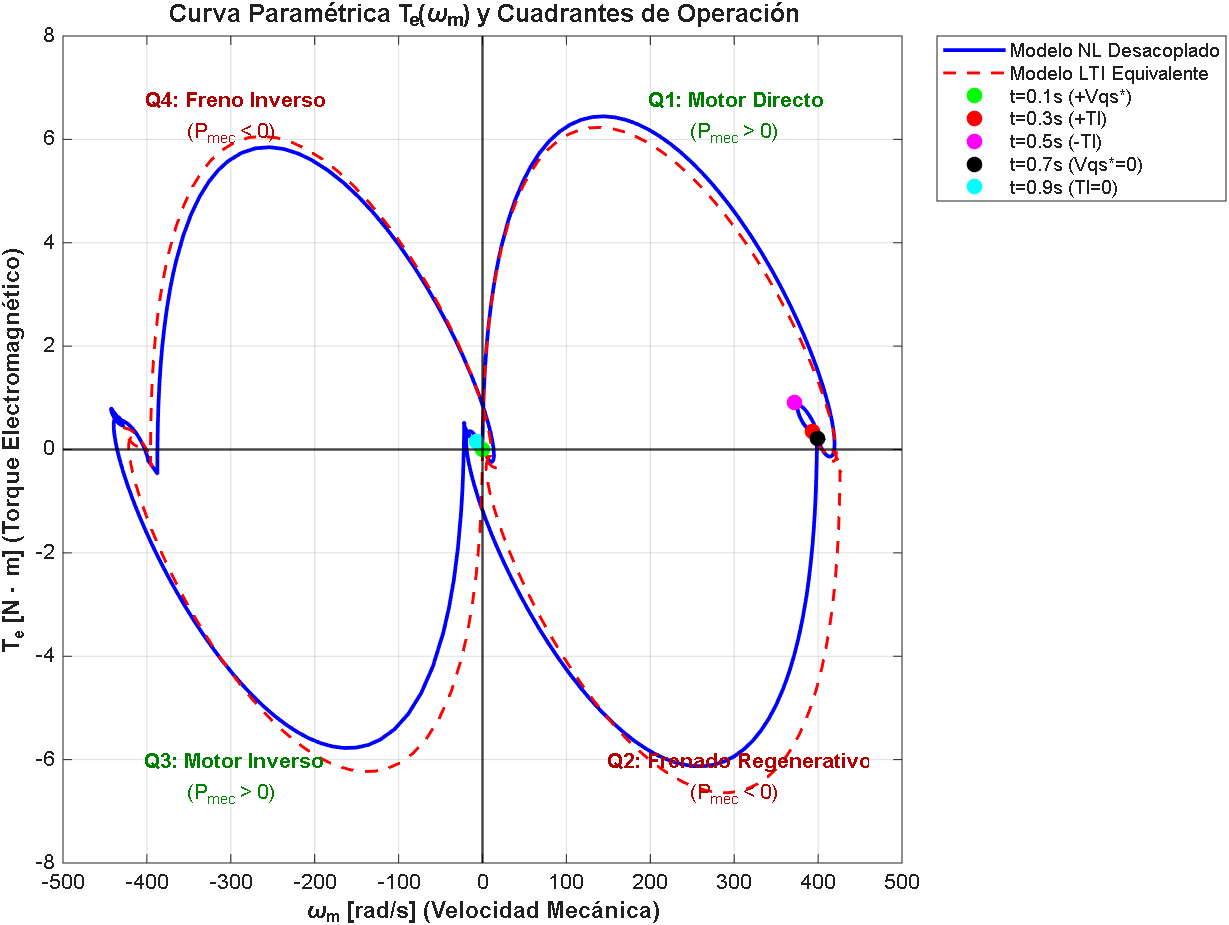
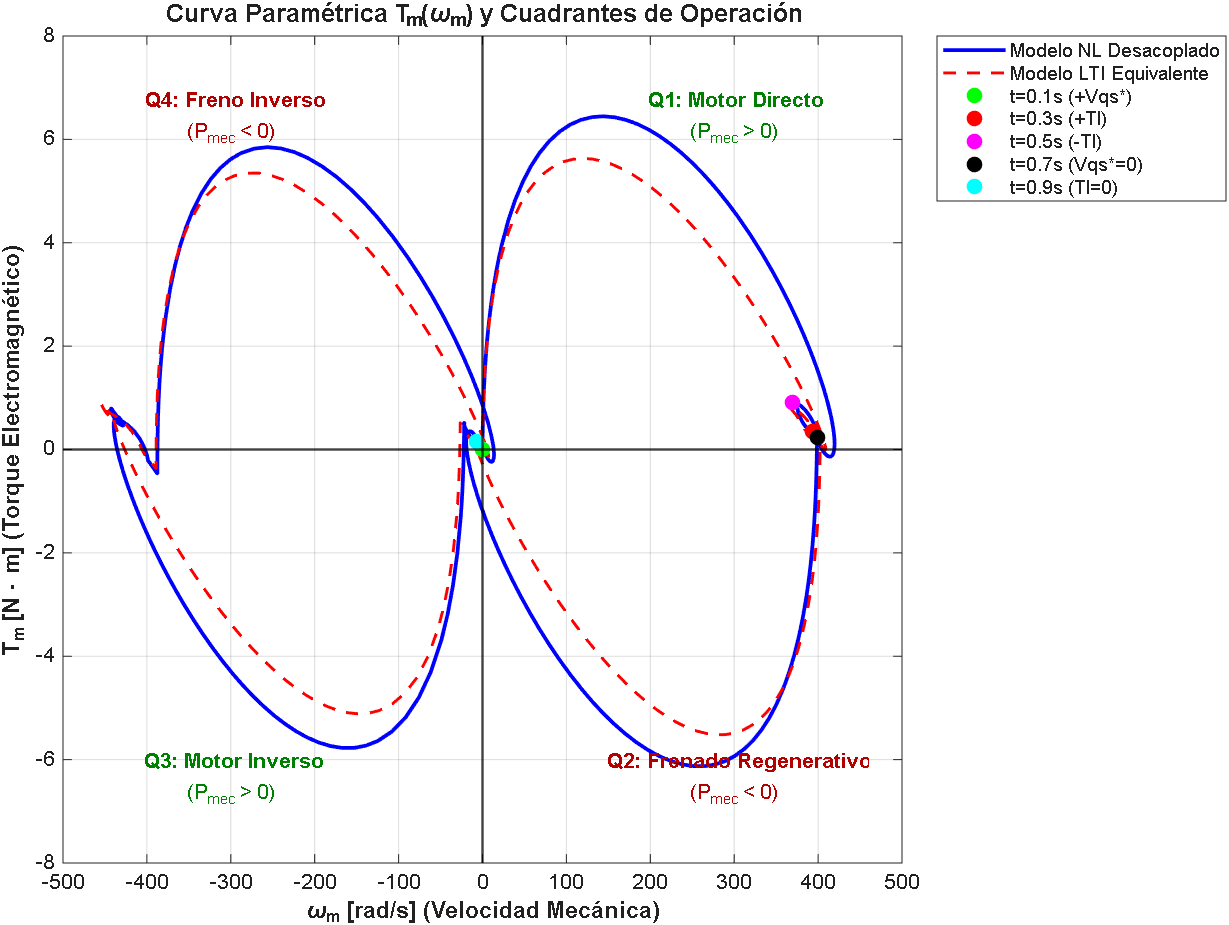
.

diff --git a/MathWorks/evaluacion_cuadrantes.m b/MathWorks/evaluacion_cuadrantes.m
@@ -39,19 +39,19 @@ iq_LTI   = squeeze(sig_iq_LTI.Data);
 P = 4;           % Pares de polos
 lambda_m = 0.08; % [Wb] Flujo magnético concatenado de imanes permanentes
 
-% Cálculo de Te para NL y LTI (SPMSM: Te = 1.5 * P * lambda_m * iqs)
-Te_NL  = 1.5 * P * lambda_m * iq_NL;
-Te_LTI = 1.5 * P * lambda_m * iq_LTI;
+% Cálculo de Tm para NL y LTI (SPMSM: Tm = 1.5 * P * lambda_m * iqs)
+Tm_NL  = 1.5 * P * lambda_m * iq_NL;
+Tm_LTI = 1.5 * P * lambda_m * iq_LTI;
 
 %% 3. Generación del gráfico paramétrico
-figure('Name', 'Plano Paramétrico Te vs wm - Cuadrantes de Operación', ...
+figure('Name', 'Plano Paramétrico Tm vs wm - Cuadrantes de Operación', ...
     'Color', 'w', 'Position', [150 150 900 650]);
 
 % Gráfica del modelo NL
-plot(wm_NL, Te_NL, 'b-', 'LineWidth', 1.8, 'DisplayName', 'Modelo NL Desacoplado');
+plot(wm_NL, Tm_NL, 'b-', 'LineWidth', 1.8, 'DisplayName', 'Modelo NL Desacoplado');
 hold on;
 % Gráfica del modelo LTI
-plot(wm_LTI, Te_LTI, 'r--', 'LineWidth', 1.4, 'DisplayName', 'Modelo LTI Equivalente');
+plot(wm_LTI, Tm_LTI, 'r--', 'LineWidth', 1.4, 'DisplayName', 'Modelo LTI Equivalente');
 
 % Ejes principales para delimitar cuadrantes
 xline(0, 'k-', 'LineWidth', 1.2, 'HandleVisibility', 'off');
@@ -65,7 +65,7 @@ etiquetas = {'t=0.1s (+Vqs*)', 't=0.3s (+Tl)', 't=0.5s (-Tl)', 't=0.7s (Vqs*=0)'
 
 for k = 1:length(t_eval)
     [~, idx] = min(abs(t_wm_NL - t_eval(k)));
-    plot(wm_NL(idx), Te_NL(idx), colores{k}, 'MarkerFaceColor', colores{k}(1), ...
+    plot(wm_NL(idx), Tm_NL(idx), colores{k}, 'MarkerFaceColor', colores{k}(1), ...
         'MarkerSize', 7, 'DisplayName', etiquetas{k});
 end
 
@@ -81,6 +81,6 @@ text(xl(1)*0.6, yl(2)*0.8, '\bf Q4: Freno Inverso\rm\newline(P_{mec} < 0)', ...
     'Color', [0.7 0 0], 'FontSize', 10, 'HorizontalAlignment', 'center');
 
 xlabel('\omega_m [rad/s] (Velocidad Mecánica)', 'FontWeight', 'bold');
-ylabel('T_e [N\cdot m] (Torque Electromagnético)', 'FontWeight', 'bold');
-title('Curva Paramétrica T_e(\omega_m) y Cuadrantes de Operación', 'FontSize', 12);
+ylabel('T_m [N\cdot m] (Torque Electromagnético)', 'FontWeight', 'bold');
+title('Curva Paramétrica T_m(\omega_m) y Cuadrantes de Operación', 'FontSize', 12);
 legend('Location', 'northeastoutside');
